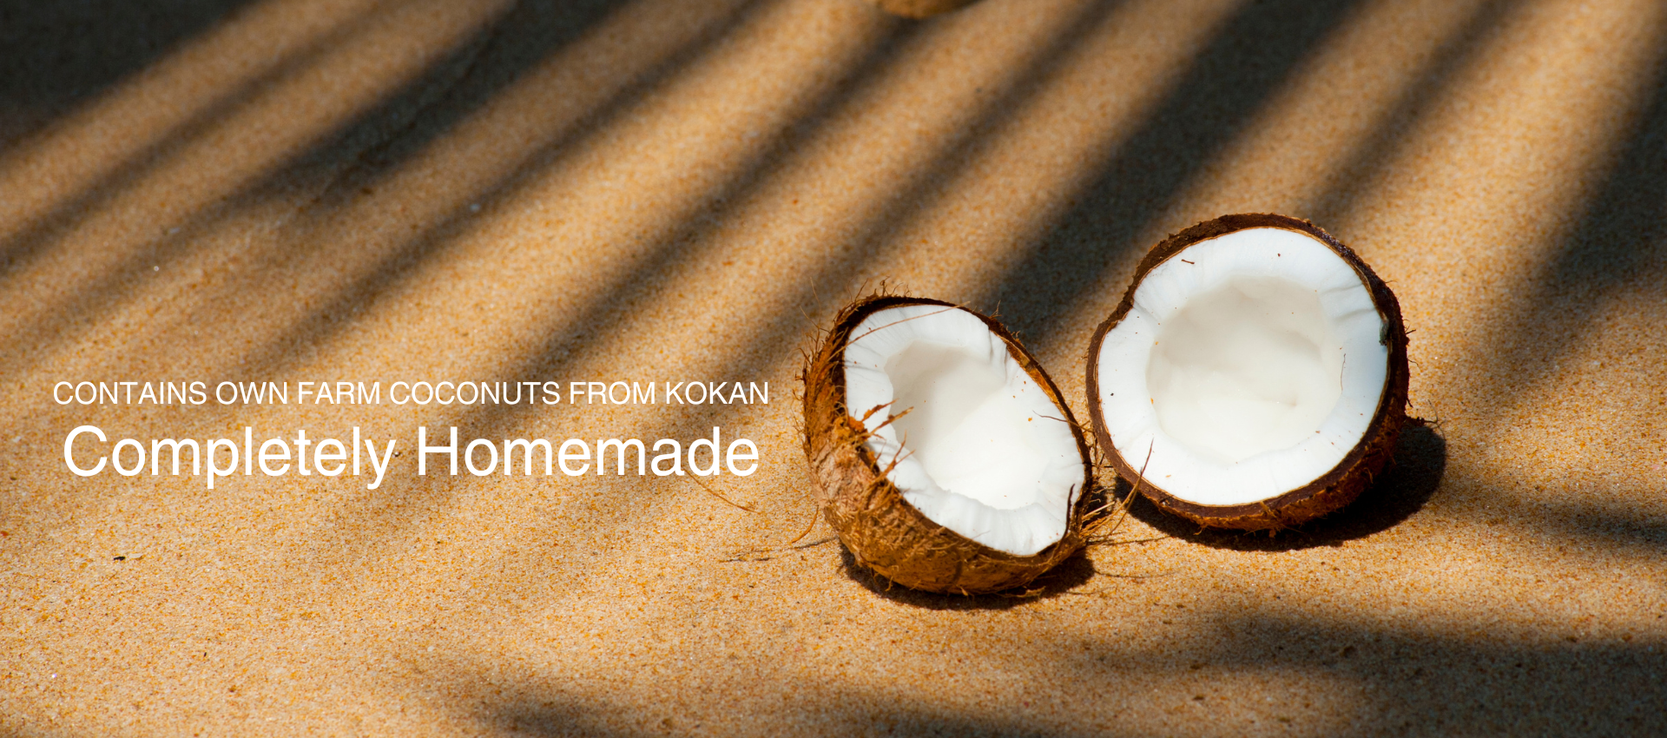
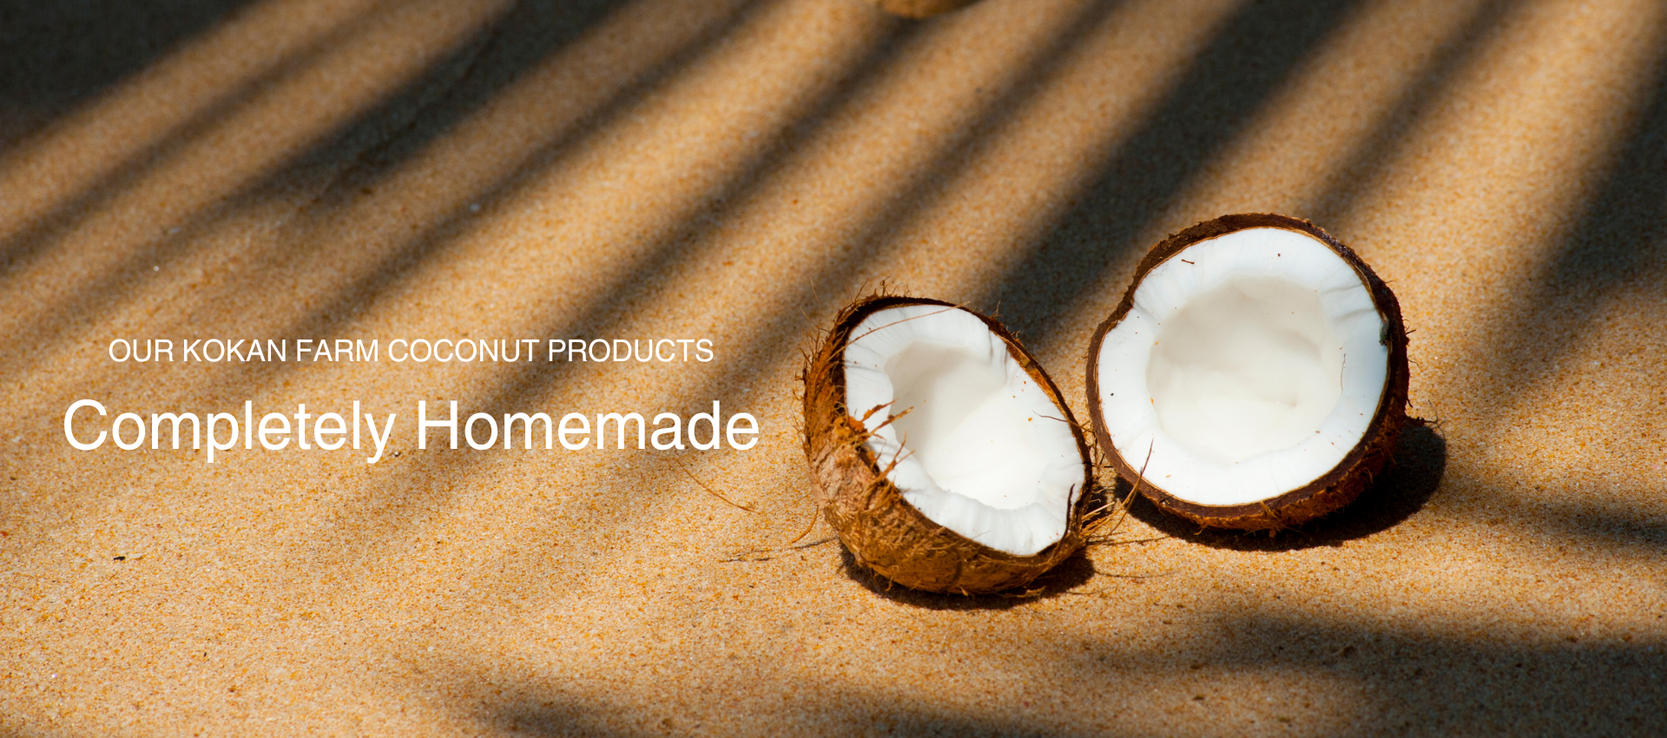
changes

Changed region(s): [[0.0312, 0.52, 0.4688, 0.6729], [0.0625, 0.4588, 0.4375, 0.4894]]

diff --git a/dist/parallax/index.html b/dist/parallax/index.html
@@ -7,8 +7,8 @@
   <base href="/">
   <meta name="viewport" content="width=device-width, initial-scale=1.0">
   <link rel="icon" type="image/x-icon" href="favicon.ico">
-<style>@charset "UTF-8";:root{--bs-blue:#0d6efd;--bs-indigo:#6610f2;--bs-purple:#6f42c1;--bs-pink:#d63384;--bs-red:#dc3545;--bs-orange:#fd7e14;--bs-yellow:#ffc107;--bs-green:#198754;--bs-teal:#20c997;--bs-cyan:#0dcaf0;--bs-black:#000;--bs-white:#fff;--bs-gray:#6c757d;--bs-gray-dark:#343a40;--bs-gray-100:#f8f9fa;--bs-gray-200:#e9ecef;--bs-gray-300:#dee2e6;--bs-gray-400:#ced4da;--bs-gray-500:#adb5bd;--bs-gray-600:#6c757d;--bs-gray-700:#495057;--bs-gray-800:#343a40;--bs-gray-900:#212529;--bs-primary:#0d6efd;--bs-secondary:#6c757d;--bs-success:#198754;--bs-info:#0dcaf0;--bs-warning:#ffc107;--bs-danger:#dc3545;--bs-light:#f8f9fa;--bs-dark:#212529;--bs-primary-rgb:13,110,253;--bs-secondary-rgb:108,117,125;--bs-success-rgb:25,135,84;--bs-info-rgb:13,202,240;--bs-warning-rgb:255,193,7;--bs-danger-rgb:220,53,69;--bs-light-rgb:248,249,250;--bs-dark-rgb:33,37,41;--bs-primary-text-emphasis:#052c65;--bs-secondary-text-emphasis:#2b2f32;--bs-success-text-emphasis:#0a3622;--bs-info-text-emphasis:#055160;--bs-warning-text-emphasis:#664d03;--bs-danger-text-emphasis:#58151c;--bs-light-text-emphasis:#495057;--bs-dark-text-emphasis:#495057;--bs-primary-bg-subtle:#cfe2ff;--bs-secondary-bg-subtle:#e2e3e5;--bs-success-bg-subtle:#d1e7dd;--bs-info-bg-subtle:#cff4fc;--bs-warning-bg-subtle:#fff3cd;--bs-danger-bg-subtle:#f8d7da;--bs-light-bg-subtle:#fcfcfd;--bs-dark-bg-subtle:#ced4da;--bs-primary-border-subtle:#9ec5fe;--bs-secondary-border-subtle:#c4c8cb;--bs-success-border-subtle:#a3cfbb;--bs-info-border-subtle:#9eeaf9;--bs-warning-border-subtle:#ffe69c;--bs-danger-border-subtle:#f1aeb5;--bs-light-border-subtle:#e9ecef;--bs-dark-border-subtle:#adb5bd;--bs-white-rgb:255,255,255;--bs-black-rgb:0,0,0;--bs-font-sans-serif:system-ui,-apple-system,"Segoe UI",Roboto,"Helvetica Neue","Noto Sans","Liberation Sans",Arial,sans-serif,"Apple Color Emoji","Segoe UI Emoji","Segoe UI Symbol","Noto Color Emoji";--bs-font-monospace:SFMono-Regular,Menlo,Monaco,Consolas,"Liberation Mono","Courier New",monospace;--bs-gradient:linear-gradient(180deg, rgba(255, 255, 255, .15), rgba(255, 255, 255, 0));--bs-body-font-family:var(--bs-font-sans-serif);--bs-body-font-size:1rem;--bs-body-font-weight:400;--bs-body-line-height:1.5;--bs-body-color:#212529;--bs-body-color-rgb:33,37,41;--bs-body-bg:#fff;--bs-body-bg-rgb:255,255,255;--bs-emphasis-color:#000;--bs-emphasis-color-rgb:0,0,0;--bs-secondary-color:rgba(33, 37, 41, .75);--bs-secondary-color-rgb:33,37,41;--bs-secondary-bg:#e9ecef;--bs-secondary-bg-rgb:233,236,239;--bs-tertiary-color:rgba(33, 37, 41, .5);--bs-tertiary-color-rgb:33,37,41;--bs-tertiary-bg:#f8f9fa;--bs-tertiary-bg-rgb:248,249,250;--bs-heading-color:inherit;--bs-link-color:#0d6efd;--bs-link-color-rgb:13,110,253;--bs-link-decoration:underline;--bs-link-hover-color:#0a58ca;--bs-link-hover-color-rgb:10,88,202;--bs-code-color:#d63384;--bs-highlight-color:#212529;--bs-highlight-bg:#fff3cd;--bs-border-width:1px;--bs-border-style:solid;--bs-border-color:#dee2e6;--bs-border-color-translucent:rgba(0, 0, 0, .175);--bs-border-radius:.375rem;--bs-border-radius-sm:.25rem;--bs-border-radius-lg:.5rem;--bs-border-radius-xl:1rem;--bs-border-radius-xxl:2rem;--bs-border-radius-2xl:var(--bs-border-radius-xxl);--bs-border-radius-pill:50rem;--bs-box-shadow:0 .5rem 1rem rgba(0, 0, 0, .15);--bs-box-shadow-sm:0 .125rem .25rem rgba(0, 0, 0, .075);--bs-box-shadow-lg:0 1rem 3rem rgba(0, 0, 0, .175);--bs-box-shadow-inset:inset 0 1px 2px rgba(0, 0, 0, .075);--bs-focus-ring-width:.25rem;--bs-focus-ring-opacity:.25;--bs-focus-ring-color:rgba(13, 110, 253, .25);--bs-form-valid-color:#198754;--bs-form-valid-border-color:#198754;--bs-form-invalid-color:#dc3545;--bs-form-invalid-border-color:#dc3545}*,:after,:before{box-sizing:border-box}@media (prefers-reduced-motion:no-preference){:root{scroll-behavior:smooth}}body{margin:0;font-family:var(--bs-body-font-family);font-size:var(--bs-body-font-size);font-weight:var(--bs-body-font-weight);line-height:var(--bs-body-line-height);color:var(--bs-body-color);text-align:var(--bs-body-text-align);background-color:var(--bs-body-bg);-webkit-text-size-adjust:100%;-webkit-tap-highlight-color:transparent}:root{--bs-breakpoint-xs:0;--bs-breakpoint-sm:576px;--bs-breakpoint-md:768px;--bs-breakpoint-lg:992px;--bs-breakpoint-xl:1200px;--bs-breakpoint-xxl:1400px}*{margin:0;padding:0}html{width:100%;font-size:100%;overflow-x:hidden!important;color:#ddd;-webkit-text-size-adjust:100%;-ms-text-size-adjust:100%;-webkit-font-smoothing:antialiased!important;text-rendering:optimizelegibility;-moz-osx-font-smoothing:grayscale}body{font-size:21px;line-height:1.57142857}</style><link rel="stylesheet" href="styles.3748303af821bcc1.css" media="print" onload="this.media='all'"><noscript><link rel="stylesheet" href="styles.3748303af821bcc1.css"></noscript></head>
+<style>@charset "UTF-8";:root{--bs-blue:#0d6efd;--bs-indigo:#6610f2;--bs-purple:#6f42c1;--bs-pink:#d63384;--bs-red:#dc3545;--bs-orange:#fd7e14;--bs-yellow:#ffc107;--bs-green:#198754;--bs-teal:#20c997;--bs-cyan:#0dcaf0;--bs-black:#000;--bs-white:#fff;--bs-gray:#6c757d;--bs-gray-dark:#343a40;--bs-gray-100:#f8f9fa;--bs-gray-200:#e9ecef;--bs-gray-300:#dee2e6;--bs-gray-400:#ced4da;--bs-gray-500:#adb5bd;--bs-gray-600:#6c757d;--bs-gray-700:#495057;--bs-gray-800:#343a40;--bs-gray-900:#212529;--bs-primary:#0d6efd;--bs-secondary:#6c757d;--bs-success:#198754;--bs-info:#0dcaf0;--bs-warning:#ffc107;--bs-danger:#dc3545;--bs-light:#f8f9fa;--bs-dark:#212529;--bs-primary-rgb:13,110,253;--bs-secondary-rgb:108,117,125;--bs-success-rgb:25,135,84;--bs-info-rgb:13,202,240;--bs-warning-rgb:255,193,7;--bs-danger-rgb:220,53,69;--bs-light-rgb:248,249,250;--bs-dark-rgb:33,37,41;--bs-primary-text-emphasis:#052c65;--bs-secondary-text-emphasis:#2b2f32;--bs-success-text-emphasis:#0a3622;--bs-info-text-emphasis:#055160;--bs-warning-text-emphasis:#664d03;--bs-danger-text-emphasis:#58151c;--bs-light-text-emphasis:#495057;--bs-dark-text-emphasis:#495057;--bs-primary-bg-subtle:#cfe2ff;--bs-secondary-bg-subtle:#e2e3e5;--bs-success-bg-subtle:#d1e7dd;--bs-info-bg-subtle:#cff4fc;--bs-warning-bg-subtle:#fff3cd;--bs-danger-bg-subtle:#f8d7da;--bs-light-bg-subtle:#fcfcfd;--bs-dark-bg-subtle:#ced4da;--bs-primary-border-subtle:#9ec5fe;--bs-secondary-border-subtle:#c4c8cb;--bs-success-border-subtle:#a3cfbb;--bs-info-border-subtle:#9eeaf9;--bs-warning-border-subtle:#ffe69c;--bs-danger-border-subtle:#f1aeb5;--bs-light-border-subtle:#e9ecef;--bs-dark-border-subtle:#adb5bd;--bs-white-rgb:255,255,255;--bs-black-rgb:0,0,0;--bs-font-sans-serif:system-ui,-apple-system,"Segoe UI",Roboto,"Helvetica Neue","Noto Sans","Liberation Sans",Arial,sans-serif,"Apple Color Emoji","Segoe UI Emoji","Segoe UI Symbol","Noto Color Emoji";--bs-font-monospace:SFMono-Regular,Menlo,Monaco,Consolas,"Liberation Mono","Courier New",monospace;--bs-gradient:linear-gradient(180deg, rgba(255, 255, 255, .15), rgba(255, 255, 255, 0));--bs-body-font-family:var(--bs-font-sans-serif);--bs-body-font-size:1rem;--bs-body-font-weight:400;--bs-body-line-height:1.5;--bs-body-color:#212529;--bs-body-color-rgb:33,37,41;--bs-body-bg:#fff;--bs-body-bg-rgb:255,255,255;--bs-emphasis-color:#000;--bs-emphasis-color-rgb:0,0,0;--bs-secondary-color:rgba(33, 37, 41, .75);--bs-secondary-color-rgb:33,37,41;--bs-secondary-bg:#e9ecef;--bs-secondary-bg-rgb:233,236,239;--bs-tertiary-color:rgba(33, 37, 41, .5);--bs-tertiary-color-rgb:33,37,41;--bs-tertiary-bg:#f8f9fa;--bs-tertiary-bg-rgb:248,249,250;--bs-heading-color:inherit;--bs-link-color:#0d6efd;--bs-link-color-rgb:13,110,253;--bs-link-decoration:underline;--bs-link-hover-color:#0a58ca;--bs-link-hover-color-rgb:10,88,202;--bs-code-color:#d63384;--bs-highlight-color:#212529;--bs-highlight-bg:#fff3cd;--bs-border-width:1px;--bs-border-style:solid;--bs-border-color:#dee2e6;--bs-border-color-translucent:rgba(0, 0, 0, .175);--bs-border-radius:.375rem;--bs-border-radius-sm:.25rem;--bs-border-radius-lg:.5rem;--bs-border-radius-xl:1rem;--bs-border-radius-xxl:2rem;--bs-border-radius-2xl:var(--bs-border-radius-xxl);--bs-border-radius-pill:50rem;--bs-box-shadow:0 .5rem 1rem rgba(0, 0, 0, .15);--bs-box-shadow-sm:0 .125rem .25rem rgba(0, 0, 0, .075);--bs-box-shadow-lg:0 1rem 3rem rgba(0, 0, 0, .175);--bs-box-shadow-inset:inset 0 1px 2px rgba(0, 0, 0, .075);--bs-focus-ring-width:.25rem;--bs-focus-ring-opacity:.25;--bs-focus-ring-color:rgba(13, 110, 253, .25);--bs-form-valid-color:#198754;--bs-form-valid-border-color:#198754;--bs-form-invalid-color:#dc3545;--bs-form-invalid-border-color:#dc3545}*,:after,:before{box-sizing:border-box}@media (prefers-reduced-motion:no-preference){:root{scroll-behavior:smooth}}body{margin:0;font-family:var(--bs-body-font-family);font-size:var(--bs-body-font-size);font-weight:var(--bs-body-font-weight);line-height:var(--bs-body-line-height);color:var(--bs-body-color);text-align:var(--bs-body-text-align);background-color:var(--bs-body-bg);-webkit-text-size-adjust:100%;-webkit-tap-highlight-color:transparent}:root{--bs-breakpoint-xs:0;--bs-breakpoint-sm:576px;--bs-breakpoint-md:768px;--bs-breakpoint-lg:992px;--bs-breakpoint-xl:1200px;--bs-breakpoint-xxl:1400px}@charset "UTF-8";*{font-family:Segoe UI,Tahoma,Geneva,Verdana,sans-serif!important}*:focus{outline:none}body{font-family:Montserrat,sans-serif,Arial,sans-serif;font-size:14px;line-height:1.71429;font-weight:400;letter-spacing:normal;color:#151515;background-color:#fff;-webkit-text-size-adjust:none;-webkit-font-smoothing:subpixel-antialiased}</style><link rel="stylesheet" href="styles.17a709a1211edc93.css" media="print" onload="this.media='all'"><noscript><link rel="stylesheet" href="styles.17a709a1211edc93.css"></noscript></head>
 <body>
   <app-root></app-root>
-<script src="runtime.be0e48cf1c69bce3.js" type="module"></script><script src="polyfills.7988f08c839b490f.js" type="module"></script><script src="scripts.c1aef913a5555e0b.js" defer></script><script src="main.a440b253ab818d6c.js" type="module"></script></body>
+<script src="runtime.be0e48cf1c69bce3.js" type="module"></script><script src="polyfills.7988f08c839b490f.js" type="module"></script><script src="scripts.c1aef913a5555e0b.js" defer></script><script src="main.905c31aa606463a7.js" type="module"></script></body>
 </html>

diff --git a/src/app/products/products.component.ts b/src/app/products/products.component.ts
@@ -1,30 +1,35 @@
-import { Component } from '@angular/core';
+import { Component, OnInit } from '@angular/core';
 
 @Component({
   selector: 'app-products',
   templateUrl: './products.component.html',
   styleUrls: ['./products.component.css']
 })
-export class ProductsComponent {
-
+export class ProductsComponent implements OnInit {
+  ngOnInit(): void {
+    this.ScrollToTop()
+  }
+  ScrollToTop(){
+    window.scrollTo({
+      top: 0,
+      behavior: 'smooth' // Optional: Smooth scrolling animation
+    });
+  }
   activeFilter: string = 'all';
   cards = [
-    { imgSrc: 'assets/images/hampers/h1.jpg', title: 'Hamper', description: 'Lorem ipsum dolor..', dataName: 'Hamper' },
-    { imgSrc: 'assets/images/hampers/h2.jpg', title: 'Hamper', description: 'Lorem ipsum dolor..', dataName: 'Hamper' },
-    { imgSrc: 'assets/images/hampers/h3.jpg', title: 'Hamper', description: 'Lorem ipsum dolor..', dataName: 'Hamper' },
-    { imgSrc: 'assets/images/hampers/h4.jpg', title: 'Hamper', description: 'Lorem ipsum dolor..', dataName: 'Hamper' },
-    { imgSrc: 'assets/images/hampers/h5.jpg', title: 'Hamper', description: 'Lorem ipsum dolor..', dataName: 'Hamper' },
-    { imgSrc: 'assets/images/soaps/s1.jpg', title: 'Soap', description: 'Lorem ipsum dolor..', dataName: 'Soap' },
-    { imgSrc: 'assets/images/soaps/s2.jpg', title: 'Soap', description: 'Lorem ipsum dolor..', dataName: 'Soap' },
-    { imgSrc: 'assets/images/soaps/s3.jpg', title: 'Soap', description: 'Lorem ipsum dolor..', dataName: 'Soap' },
-    { imgSrc: 'assets/images/oils/o1.JPG', title: 'Oils', description: 'Lorem ipsum dolor..', dataName: 'Oils' },
-    { imgSrc: 'assets/images/oils/o2.jpg', title: 'Oils', description: 'Lorem ipsum dolor..', dataName: 'Oils' },
-    { imgSrc: 'assets/images/oils/o3.jpg', title: 'Oils', description: 'Lorem ipsum dolor..', dataName: 'Oils' },
-    { imgSrc: 'assets/images/lamps/l1.jpg', title: 'Lamps', description: 'Lorem ipsum dolor..', dataName: 'Oils' },
-    { imgSrc: 'assets/images/lamps/l3.jpg', title: 'Lamps', description: 'Lorem ipsum dolor..', dataName: 'Oils' },
-    { imgSrc: 'assets/images/lamps/l2.jpg', title: 'Lamps', description: 'Lorem ipsum dolor..', dataName: 'Oils' },
-    { imgSrc: 'assets/images/lamps/l4.jpg', title: 'Lamps', description: 'Lorem ipsum dolor..', dataName: 'Oils' },
-    { imgSrc: 'assets/images/lamps/l5.jpg', title: 'Lamps', description: 'Lorem ipsum dolor..', dataName: 'Oils' },
+    { imgSrc: 'assets/images/hampers/h1.jpg', title: 'Jumbo Hamper', description: ' COIO Handcrafted Gift Solutions is here for you.. \n❌ No Artificial Colors \n❌ No Chemicals \n❌ No paraben and SLS \n✅ Healthy \n✅ Actual ingredient Additions', dataName: 'Hamper' },
+    { imgSrc: 'assets/images/hampers/h2.jpg', title: 'Jumbo Hamper', description: ' COIO Handcrafted Gift Solutions is here for you.. \n❌ No Artificial Colors \n❌ No Chemicals \n❌ No paraben and SLS \n✅ Healthy \n✅ Actual ingredient Additions', dataName: 'Hamper' },
+    { imgSrc: 'assets/images/hampers/h3.jpg', title: 'Jumbo Hamper', description: ' COIO Handcrafted Gift Solutions is here for you.. \n❌ No Artificial Colors \n❌ No Chemicals \n❌ No paraben and SLS \n✅ Healthy \n✅ Actual ingredient Additions', dataName: 'Hamper' },
+    { imgSrc: 'assets/images/hampers/h4.jpg', title: 'Jumbo Hamper', description: ' COIO Handcrafted Gift Solutions is here for you.. \n❌ No Artificial Colors \n❌ No Chemicals \n❌ No paraben and SLS \n✅ Healthy \n✅ Actual ingredient Additions', dataName: 'Hamper' },
+    { imgSrc: 'assets/images/hampers/h5.jpg', title: 'Mini Hamper', description: ' COIO Handcrafted Gift Solutions is here for you.. \n❌ No Artificial Colors \n❌ No Chemicals \n❌ No paraben and SLS \n✅ Healthy \n✅ Actual ingredient Additions', dataName: 'Hamper' },
+    { imgSrc: 'assets/images/soaps/s1.jpg', title: 'Coconut Soap - 90gm', description: '✅Organic \n✅ Handmade \n✅ Vegan \n✅ Artifical Colors \n❌ Animal Cruelty \n❌ Artificial Chemicals \n❌ Parabens', dataName: 'Soap' },
+    { imgSrc: 'assets/images/soaps/s2.jpg', title: 'Termeric Soap - 90gm', description: '✅Organic \n✅ Handmade \n✅ Vegan \n✅ Artifical Colors \n❌ Animal Cruelty \n❌ Artificial Chemicals \n❌ Parabens', dataName: 'Soap' },
+    { imgSrc: 'assets/images/soaps/s3.jpg', title: 'Coffee Soap - 90gm', description: '✅Organic \n✅ Handmade \n✅ Vegan \n✅ Artifical Colors \n❌ Animal Cruelty \n❌ Artificial Chemicals \n❌ Parabens', dataName: 'Soap' },
+    { imgSrc: 'assets/images/oils/o1.jpg', title: 'Hair Oil - 100gm', description: ' 11 different types of herbs naturally infused by cold pressed method in COIO Cold Pressed Coconut Oil. \n✅ Organic \n✅ Natural \n✅ Vegan \n❌ Chemicals \n❌ Preservatives \n❌ Artificial additives', dataName: 'Oils' },
+    { imgSrc: 'assets/images/oils/o2.jpg', title: 'Cold Pressed Oil - 200gm', description: 'Cold pressed Homemade Coconut oil, made from a special Banavali species of Coconut. \n First by Segregation of best coconuts. \n Sun Drying for high oil extraction.\n Coconuts are then put in Cold press machine to extract best water like looking oil.', dataName: 'Oils' },
+    { imgSrc: 'assets/images/oils/o3.jpg', title: 'Cold Pressed Oil - 500gm', description: 'Cold pressed Homemade Coconut oil, made from a special Banavali species of Coconut. \n First by Segregation of best coconuts. \n Sun Drying for high oil extraction.\n Coconuts are then put in Cold press machine to extract best water like looking oil.', dataName: 'Oils' },
+    { imgSrc: 'assets/images/lamps/l3.jpg', title: 'Coconut Shell Lamp', description: ' Perfect for Romantic Dinner | Dim-light Relaxation | Gifting | Unique Festival Decoration  \n❌ Artificial Chemicals\n✅ Organic\n✅ Eco-Friendly\n✅ Sustainable', dataName: 'Lamps' },
+    { imgSrc: 'assets/images/lamps/l4.jpg', title: 'Coconut Shell Lamp Hamper', description: 'Perfect for Romantic Dinner | Dim-light Relaxation | Gifting | Unique Festival Decoration  \n❌ Artificial Chemicals\n✅ Organic\n✅ Eco-Friendly\n✅ Sustainable', dataName: 'Lamps' },
 
   ];
 
@@ -37,7 +42,7 @@ export class ProductsComponent {
   }
   newArray:any=[];
   chunkArray(array: any[], size: number): any[][] {
-    const filteredArray = this.activeFilter !== 'all' ? this.cards.filter(e => e.title === this.activeFilter) : this.cards;
+    const filteredArray = this.activeFilter !== 'all' ? this.cards.filter(e => e.dataName === this.activeFilter) : this.cards;
     const chunkedArray: any[][] = [];
     for (let i = 0; i < filteredArray.length; i += size) {
       chunkedArray.push(filteredArray.slice(i, i + size));

diff --git a/src/app/products/products.component.html b/src/app/products/products.component.html
@@ -1,27 +1,27 @@
 <div class="container">
     <!-- Images Filter Buttons Section -->
-    <div class="row mt-5" id="filter-buttons">
-      <div class="col-12 justify-content-center d-flex" >
-        <button class="button button-secondary button-pipaluk mt-0 mx-2" [class.active]="activeFilter === 'all'" (click)="setFilter('all')">Show all</button>
-        <button class="button button-secondary button-pipaluk mt-0 mx-2" [class.active]="activeFilter === 'Hamper'" (click)="setFilter('Hamper')">Hampers</button>
-        <button class="button button-secondary button-pipaluk mt-0 mx-2" [class.active]="activeFilter === 'Soap'" (click)="setFilter('Soap')">Soaps</button>
-        <button class="button button-secondary button-pipaluk mt-0 mx-2" [class.active]="activeFilter === 'Oils'" (click)="setFilter('Oils')">Oils</button>
-        <button class="button button-secondary button-pipaluk mt-0 mx-2" [class.active]="activeFilter === 'Lamps'" (click)="setFilter('Lamps')">Lamps</button>
+    <div class=" container-fluid mt-5" id="filter-buttons">
+      <div class="col-12 justify-content-center d-flex flex-wrap" >
+        <button class="button button-secondary button-pipaluk my-2 mx-2" [class.active]="activeFilter === 'all'" (click)="setFilter('all')">Show all</button>
+        <button class="button button-secondary button-pipaluk my-2 mx-2" [class.active]="activeFilter === 'Hamper'" (click)="setFilter('Hamper')">Hampers</button>
+        <button class="button button-secondary button-pipaluk my-2 mx-2" [class.active]="activeFilter === 'Soap'" (click)="setFilter('Soap')">Soaps</button>
+        <button class="button button-secondary button-pipaluk my-2 mx-2" [class.active]="activeFilter === 'Oils'" (click)="setFilter('Oils')">Oils</button>
+        <button class="button button-secondary button-pipaluk my-2 mx-2" [class.active]="activeFilter === 'Lamps'" (click)="setFilter('Lamps')">Home Decor</button>
 
       </div>
     </div>
     <!-- Filterable Images / Cards Section -->
     <div class="row px-2 mt-4 gap-3" id="filterable-cards">
       <ng-container *ngFor="let chunk of chunkArray(cards, 4)">
-        <div class="row">
+        <!-- <div class="row"> -->
           <div class="card p-0 col-md-4" *ngFor="let card of chunk" >
-            <img [src]="card.imgSrc" alt="img">
+            <img loading="lazy" [src]="card.imgSrc" alt="img">
             <div class="card-body">
               <h6 class="card-title">{{ card.title }}</h6>
               <p class="card-text">{{ card.description }}</p>
             </div>
           </div>
-        </div>
+        <!-- </div> -->
       </ng-container>
     </div>
   </div>

diff --git a/src/app/new-content/new-content.component.html b/src/app/new-content/new-content.component.html
@@ -112,25 +112,25 @@
                         <div class="row justify-content-center">
                             <div class="col-md-4 wow fadeInDown col-9" data-wow-delay=".2s">
                                 <ul class="list-marked-2 box-categories-list">
-                                    <li><a href="#"><img src="assets/images/soaps/s1.jpg" alt="" width="368"
+                                    <li><a href="#"><img src="assets/images/soaps/s4.jpg" alt="" width="368"
                                                 height="420" /></a>
-                                        <h5 class="box-categories-title" style="color:#dac0a3; ">Soaps</h5>
+                                        <h5 class="box-categories-title">Soaps</h5>
                                     </li>
                                 </ul>
                             </div>
                             <div class="col-md-4 wow fadeInDown col-9" data-wow-delay=".2s">
                                 <ul class="list-marked-2 box-categories-list">
-                                    <li><a href="#"><img src="assets/images/oils/o1.JPG" alt="" width="368"
+                                    <li><a href="#"><img src="assets/images/oils/o4.jpg" alt="" width="368"
                                                 height="420" /></a>
-                                        <h5 class="box-categories-title" style="color:#dac0a3; ">Oils</h5>
+                                        <h5 class="box-categories-title">Oils</h5>
                                     </li>
                                 </ul>
                             </div>
                             <div class="col-md-4 wow fadeInDown col-9" data-wow-delay=".2s">
                                 <ul class="list-marked-2 box-categories-list">
-                                    <li><a href="#"><img src="assets/images/lamps/l1.jpg" alt="" width="368"
+                                    <li><a href="#"><img src="assets/images/lamps/l6.jpg" alt="" width="368"
                                                 height="420" /></a>
-                                        <h5 class="box-categories-title" style="color:#dac0a3;">Lamps</h5>
+                                        <h5 class="box-categories-title">Home Decor</h5>
                                     </li>
                                 </ul>
                             </div>

diff --git a/src/app/navbar/navbar.component.html b/src/app/navbar/navbar.component.html
@@ -19,7 +19,7 @@
   <div class="collapse navbar-collapse col-12 col-lg-auto my-2 justify-content-center my-md-0 text-small" id="navbarNavDropdown">
     <ul class="navbar-nav col-12 col-lg-auto my-2 justify-content-center my-md-0 text-small">
       <li class="nav-item p-2">
-        <a routerLink="/" class="nav-link text-secondary">
+        <a routerLink="/" class="nav-link text-dark">
           <svg xmlns="http://www.w3.org/2000/svg" width="24" height="24" fill="currentColor" class="bi bi-house"
             viewBox="0 0 16 16">
             <path
@@ -30,7 +30,7 @@
         </a>
       </li>
       <li class="nav-item  p-2">
-        <a class="nav-link text-secondary" routerLink="/Products" >
+        <a class="nav-link text-dark" routerLink="/Products" >
           <svg xmlns="http://www.w3.org/2000/svg" width="24" height="24" fill="currentColor" class="bi bi-grid"
           viewBox="0 0 16 16">
           <path
@@ -41,7 +41,7 @@
         </a>
       </li>
       <li class="nav-item p-2" (click)="ScrollToBottom()">
-        <a class="nav-link text-secondary" style="cursor:pointer;">
+        <a class="nav-link text-dark" style="cursor:pointer;">
           <svg xmlns="http://www.w3.org/2000/svg" width="16" height="16" fill="currentColor" class="bi bi-telephone" viewBox="0 0 16 16">
             <path d="M3.654 1.328a.678.678 0 0 0-1.015-.063L1.605 2.3c-.483.484-.661 1.169-.45 1.77a17.6 17.6 0 0 0 4.168 6.608 17.6 17.6 0 0 0 6.608 4.168c.601.211 1.286.033 1.77-.45l1.034-1.034a.678.678 0 0 0-.063-1.015l-2.307-1.794a.68.68 0 0 0-.58-.122l-2.19.547a1.75 1.75 0 0 1-1.657-.459L5.482 8.062a1.75 1.75 0 0 1-.46-1.657l.548-2.19a.68.68 0 0 0-.122-.58zM1.884.511a1.745 1.745 0 0 1 2.612.163L6.29 2.98c.329.423.445.974.315 1.494l-.547 2.19a.68.68 0 0 0 .178.643l2.457 2.457a.68.68 0 0 0 .644.178l2.189-.547a1.75 1.75 0 0 1 1.494.315l2.306 1.794c.829.645.905 1.87.163 2.611l-1.034 1.034c-.74.74-1.846 1.065-2.877.702a18.6 18.6 0 0 1-7.01-4.42 18.6 18.6 0 0 1-4.42-7.009c-.362-1.03-.037-2.137.703-2.877z"/>
             <use xlink:href="#people-circle"></use>

diff --git a/src/app/app-routing.module.ts b/src/app/app-routing.module.ts
@@ -1,7 +1,8 @@
 import { NgModule } from '@angular/core';
-import { RouterModule, Routes } from '@angular/router';
+import { PreloadAllModules, RouterModule, Routes } from '@angular/router';
 import { ProductsComponent } from './products/products.component';
 import { NewContentComponent } from './new-content/new-content.component';
+
 
 const routes: Routes = [
   {
@@ -15,7 +16,7 @@ const routes: Routes = [
 ];
 
 @NgModule({
-  imports: [RouterModule.forRoot(routes)],
+  imports: [RouterModule.forRoot(routes, {preloadingStrategy:PreloadAllModules})],
   exports: [RouterModule]
 })
 export class AppRoutingModule { }

diff --git a/src/app/footer/footer.component.html b/src/app/footer/footer.component.html
@@ -19,7 +19,7 @@
                                     <div class="unit">
                                         <div class="unit-left"><span class="icon fa fa-envelope"></span></div>
                                         <div class="unit-body"><a class="link-aemail"
-                                                href="mailto:#">ifarm.official@gmail.com</a></div>
+                                                href="mailto:smpatwatkar2000@gmail.com">ifarm.official@gmail.com</a></div>
                                     </div>
                                 </li>
                                 <!-- <li>

diff --git a/src/styles.css b/src/styles.css
@@ -9589,6 +9589,7 @@ textarea.textarea-lg {
 	margin-bottom: 0;
 	letter-spacing: .05em;
 	transition: all 300ms ease;
+	font-size: 20px;
 }
 
 .card-subtitle {
@@ -26084,7 +26085,17 @@ screen and (max-height: 300px) {
 	bottom: 30% !important;
 	transform: translateY(-50%);
 }
+.card-text:last-child{
+	white-space: pre-line;
+}
 
+#filterable-cards .card {
+	width: 20rem;
+}
+
+.card-text:last-child {
+	font-size: larger;
+}
 @media screen and (max-width: 768px) {
 	.hide-on-mobile {
 	  display: none !important;
